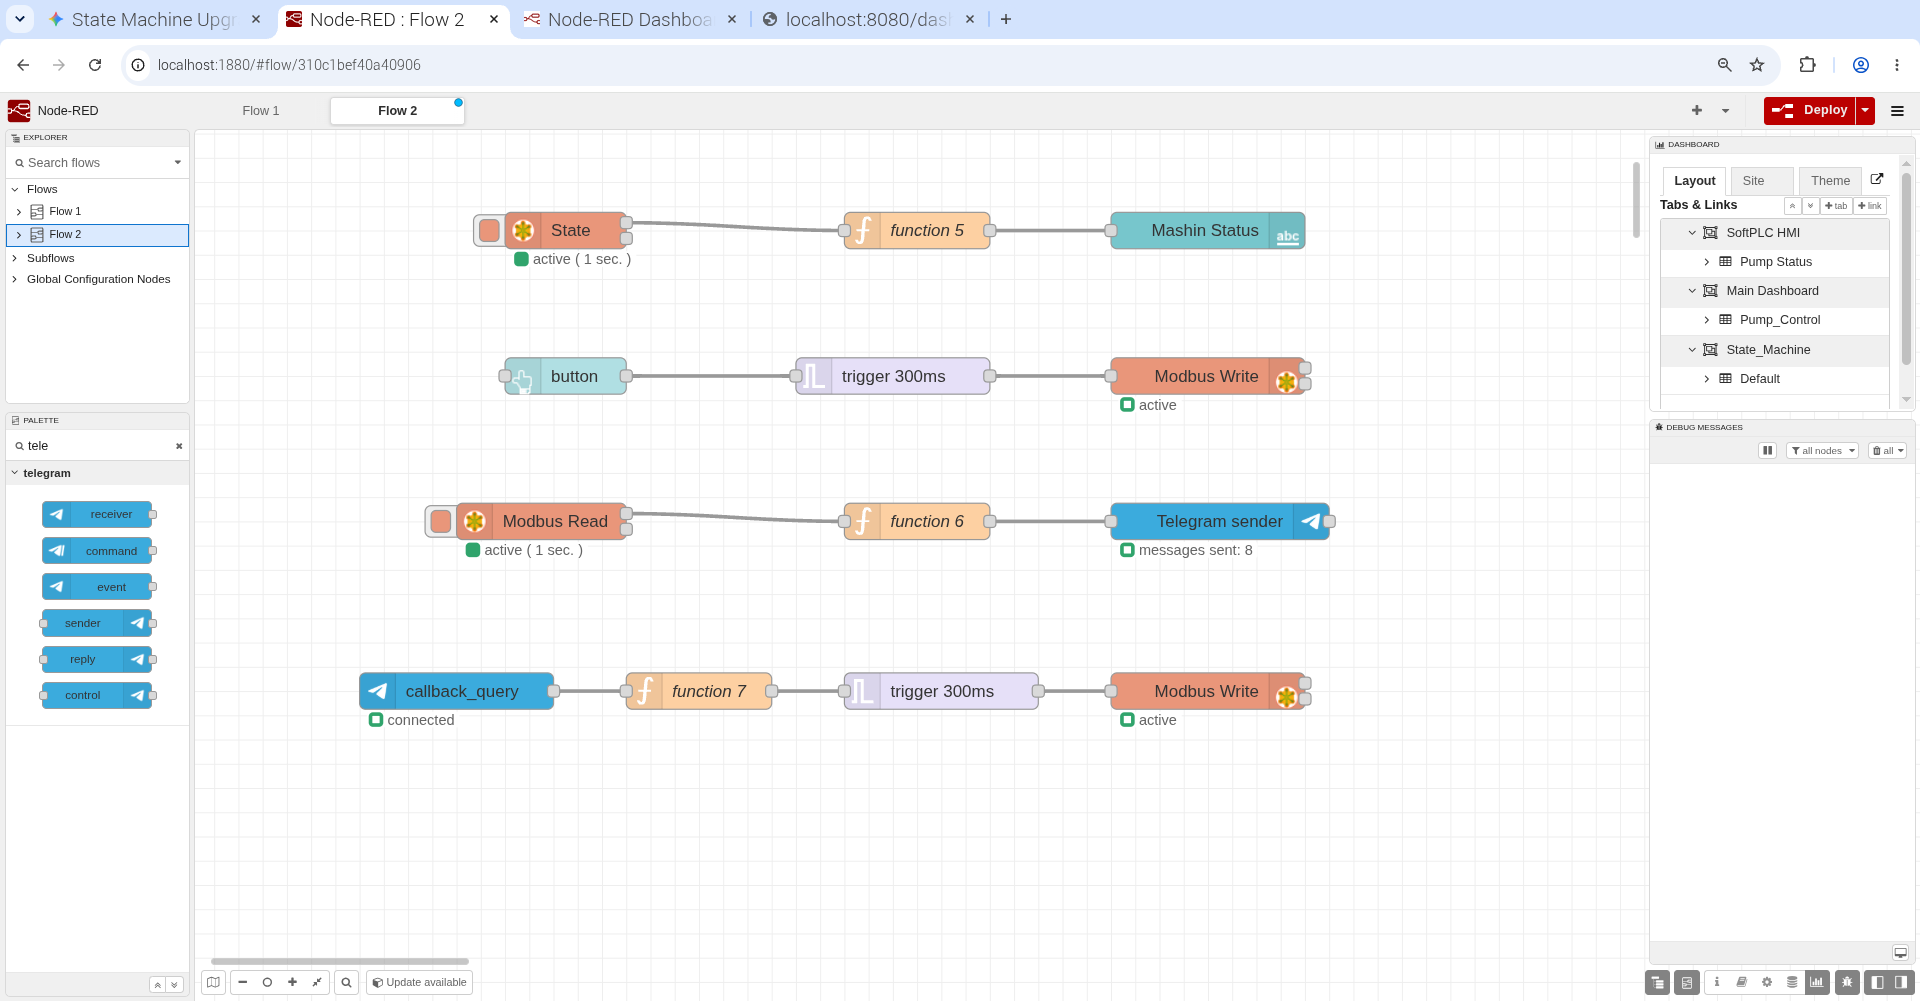
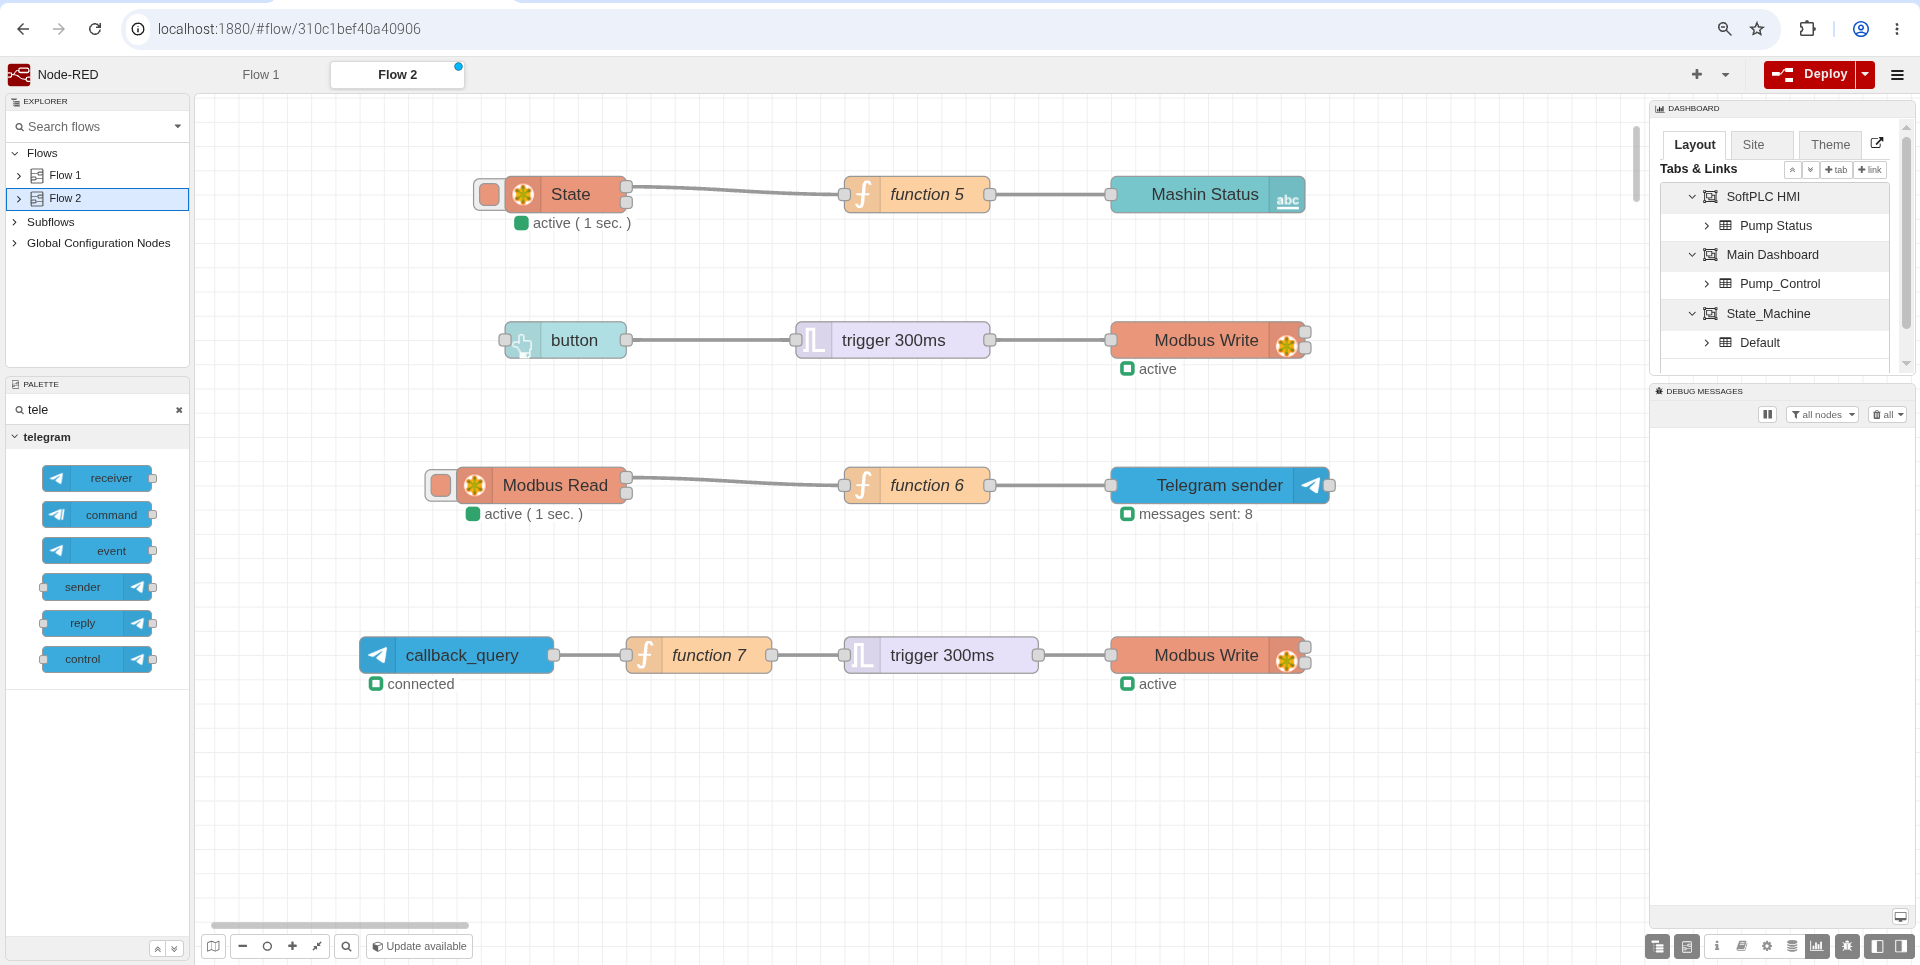
Phase8_adding Tank_Level and gauge

diff --git a/02_Advanced_State_Machine/Readme.md b/02_Advanced_State_Machine/Readme.md
@@ -255,3 +255,149 @@ END_CONFIGURATION
 ![Node-RED Telegram Intelligent Alarm](Images/Node_Red_Phase7.png)
 **2. Telegram Bot (Context-Aware Alerts & Inline Buttons):**
 ![Telegram Bot Context-Aware Alerts](Images/Telegram_Smart_Alarms.png)
+
+# 🚀 Phase 8: Process Simulation, Dry Run Protection & Modbus Optimization
+
+Building upon the robust Safe State and intelligent alarming systems from Phase 7[cite: 1], Phase 8 introduces real-time process simulation and advanced data handling. The system now simulates a physical tank level, protects the pump from running dry, and optimizes network traffic by reading multiple Modbus registers simultaneously.
+
+## 🏗 Architectural Upgrades
+
+### 1. Tank Level Simulation & Pulse Generation
+To simulate a real-world fluid process without overwhelming the scan cycle, a self-resetting timer (Pulse Generator) was implemented.
+*   **Pulse Generator:** A `TON` timer is configured to generate a single-cycle pulse every 1 second while the pump is in `State 2` (Running).
+*   **Controlled Decrement:** The `Sim_Tank_Level` variable (`%QW0`) decrements by exactly 1% per second, mimicking fluid being pumped out of a tank.
+
+### 2. Dry Run Protection (State 6)
+A new dedicated fault state (`State 6`) was introduced to separate process faults from hardware E-Stops (`State 4`).
+*   If the pump is running (`State 2`) and the tank level reaches `0`, the PLC automatically aborts the operation and jumps to `State 6`.
+*   The pump is immediately halted to prevent mechanical damage (Dry Run).
+
+## 🌐 IoT & Node-RED Optimization
+
+As the data requirements grew, the Node-RED flow was heavily optimized to reduce network latency and improve dashboard reliability.
+
+*   **Modbus Payload Optimization:** Instead of issuing multiple requests, Node-RED now uses a single `Modbus Read` node with a `Quantity of 2` to fetch both `%QW0` (Tank Level) and `%QW1` (Machine State) simultaneously as an array.
+*   **Custom Data Splitter:** A JavaScript `function` node safely unpacks the Modbus array, routing the Tank Level to a UI Gauge and the Machine State to the alarming logic.
+*   **Granular Telegram Alarming:** The `switch` node was expanded to handle three distinct fault categories, each triggering a highly specific Telegram alert with customized Inline Keyboards:
+    *   `State 4`: E-Stop Fault.
+    *   `State 5`: Maintenance Interlock[cite: 1].
+    *   `State 6`: Dry Run Critical Alarm.
+
+## 💻 Final Structured Text (ST) Code
+
+Below is the optimized State Machine logic integrating the Tank Simulation and Dry Run protection:
+
+```iecst
+Program main
+    Var
+        Start_Btn AT %IX0.0 : BOOL;
+        Stop_Btn AT %IX0.1 : BOOL;
+        Relay_Pump AT %QX0.0 : BOOL;
+        System_Mode AT %QX0.2: BOOL;
+        Sim_Tank_Level AT %QW0 :INT :=100;
+        State AT %QW1 : INT;
+        Main_Alarm AT %QX0.3 : BOOL;
+        Mode_Reset AT %QX0.4 : BOOL;
+        E_Stop At %QX0.5 :BOOL;
+
+
+    End_Var
+    
+    Var
+        Level_Dec_Timer : TON;
+        Delay_Timer : TON;
+        Delay_Timer_2 : TON;
+        Pump_Counter : CTU;
+    End_Var
+    Delay_Timer(IN := (State = 1), PT := T#3s);
+    Delay_Timer_2(IN := (State = 3), PT := T#5s);
+    Pump_Counter(CU := (State = 2), R := Mode_Reset, PV := 3);
+    Level_Dec_Timer(IN := (State = 2) AND NOT Level_Dec_Timer.Q, PT := T#1s);
+    IF Level_Dec_Timer.Q AND Sim_Tank_Level > 0 Then
+        Sim_Tank_Level := Sim_Tank_Level - 1;
+    End_IF;
+    if E_Stop = True Then
+        State := 4;
+    End_if;
+    IF Mode_Reset = TRUE AND State < 4 THEN
+        Mode_Reset := FALSE;
+    END_IF;
+    IF Mode_Reset = TRUE THEN
+        Sim_Tank_Level := 100;
+    END_IF;
+    IF (State = 2) AND Sim_Tank_Level <=0 Then
+        State :=6;
+    END_IF;   
+    case State of
+        0:
+            Relay_Pump :=False;
+            if Pump_Counter.Q = True Then
+                State:=5;
+            ElsIF Start_Btn =False Then
+                State:=1;
+            End_IF;    
+            
+            
+        1:
+            if Delay_Timer.Q =True Then
+                State:=2;
+            End_IF;
+        2:
+            Relay_Pump := True;
+            if Stop_Btn =False Then
+                State:=3;
+            End_IF;
+        3:
+            if Delay_Timer_2.Q =True Then
+                IF Pump_Counter.Q = True Then
+                    State:=5;
+                Else 
+                    State :=0;
+                 End_IF;   
+            End_IF;
+        4:
+            Relay_Pump :=False;
+            Main_Alarm :=True;
+            if Mode_Reset =True Then
+                Main_Alarm :=False;
+                E_Stop :=False;
+                Mode_Reset:=False;
+                State:=0;
+            End_IF;
+        5:
+            Relay_Pump :=False;
+            Main_Alarm :=True;
+            if Mode_Reset = True Then
+                Main_Alarm :=False;
+                Mode_Reset :=False;
+                E_Stop :=False;
+                State :=0;
+            End_if;    
+        6:
+            Relay_Pump :=False;
+            Main_Alarm :=True;
+            if Mode_Reset = True Then
+                Main_Alarm :=False;
+                Mode_Reset :=False;
+                E_Stop :=False;
+                State :=0;
+            End_if;
+    END_Case;
+                
+End_Program
+
+
+Configuration Config0
+    Resource Res0 ON PLC
+        Task Task0 (Interval := T#20ms, Priority := 0);
+        Program Inst0 WITH Task0 : main;
+    End_Resource
+End_Configuration    
+
+## 📸 Snapshots
+**1. Node-RED Flow (Data Splitting & Optimized Modbus):**
+![Node-RED Data Splitting](Images/Node_RED_FLOW_Phase8.png)
+**2. Local HMI (Tank Level Simulation):**
+![Local HMI](Images/Node_RED_HMI.png)
+**3. Telegram IoT (Segmented Smart Alarms):**
+![Telegram Alarm](Images/Telegram_Phase8.png)
